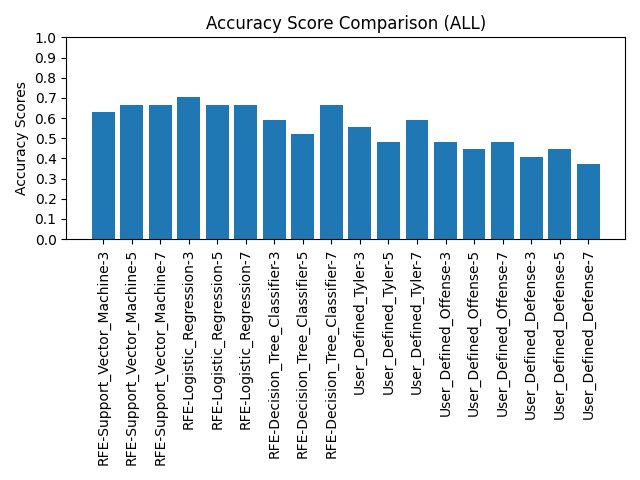
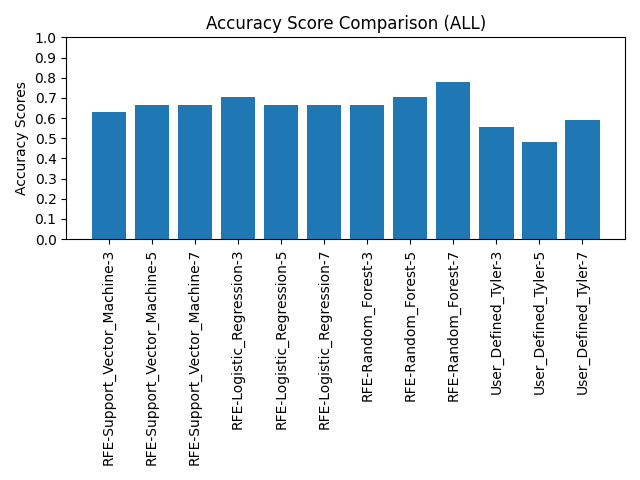
replacing DecisionTreeClassifier with RandomForestClassifier. Also removing runs off just offensive or defensive stats.

diff --git a/src/classify.py b/src/classify.py
@@ -2,6 +2,7 @@ import collections
 from typing import List, Any, Optional
 from pandas import DataFrame
 from sklearn.decomposition import PCA
+from sklearn.ensemble import RandomForestClassifier
 from sklearn.feature_selection import RFE
 from sklearn.linear_model import LogisticRegression
 from sklearn.model_selection import train_test_split
@@ -28,11 +29,6 @@ def user_chosen_features(x, choice) -> Optional[DataFrame]:
         pass
     elif choice == "tyler":
         features = ['Total Offense', 'Scoring Offense', 'Total Defense', 'Scoring Defense', 'Turnover Margin']
-    elif choice == "offense":
-        features = ['Total Offense', 'Rushing Offense', 'Passing Offense', 'Team Passing Efficiency', 'Scoring Offense']
-    elif choice == "defense":
-        features = ['Total Defense', 'Rushing Defense', 'Passing Yards Allowed', 'Team Passing Efficiency Defense',
-                    'Scoring Defense']
 
     if features is not None:
         return x[features].copy()
@@ -68,9 +64,9 @@ def get_rfe_features(x, y, estimator_type="support_vector_machine", num_features
         # apply recursive feature elimination
         rfe = RFE(estimator=clf, n_features_to_select=num_features)
         rfe.fit_transform(x_scaled, y)
-    elif estimator_type == "decision_tree_classifier":
-        # initialize the Decision Tree Classifier
-        clf = DecisionTreeClassifier()
+    elif estimator_type == "random_forest_classifier":
+        # initialize the Random Forest Classifier
+        clf = RandomForestClassifier(n_estimators=100, random_state=42)
 
         # apply the recursive feature elimination
         rfe = RFE(estimator=clf, n_features_to_select=num_features)
@@ -97,22 +93,17 @@ def knn(x, y, k) -> Any:
     feature_selection_method_list.append("RFE-Support_Vector_Machine")
     logistic_regression_features = get_rfe_features(x, y, estimator_type="logistic_regression", num_features=5)
     feature_selection_method_list.append("RFE-Logistic_Regression")
-    decision_tree_features = get_rfe_features(x, y, estimator_type="decision_tree_classifier", num_features=5)
-    feature_selection_method_list.append("RFE-Decision_Tree_Classifier")
+    decision_tree_features = get_rfe_features(x, y, estimator_type="random_forest_classifier", num_features=5)
+    feature_selection_method_list.append("RFE-Random_Forest")
 
     # user defined features
     # saehej_features = user_chosen_features(x, "saehej")
     # feature_selection_method_list.append("User_Defined_Saehej")
     tyler_features = user_chosen_features(x, "tyler")
     feature_selection_method_list.append("User_Defined_Tyler")
-    offense_features = user_chosen_features(x, "offense")
-    feature_selection_method_list.append('User_Defined_Offense')
-    defense_features = user_chosen_features(x, "defense")
-    feature_selection_method_list.append('User_Defined_Defense')
 
     for features, feature_selection in zip(
-            [svc_features, logistic_regression_features, decision_tree_features, tyler_features, offense_features,
-             defense_features], feature_selection_method_list):
+            [svc_features, logistic_regression_features, decision_tree_features, tyler_features], feature_selection_method_list):
         with open(f"../data/logs/{feature_selection}_{k}.log", "w") as f:
             f.write(f"Top 5 features: {features.columns.to_numpy()}\n\n")
 
